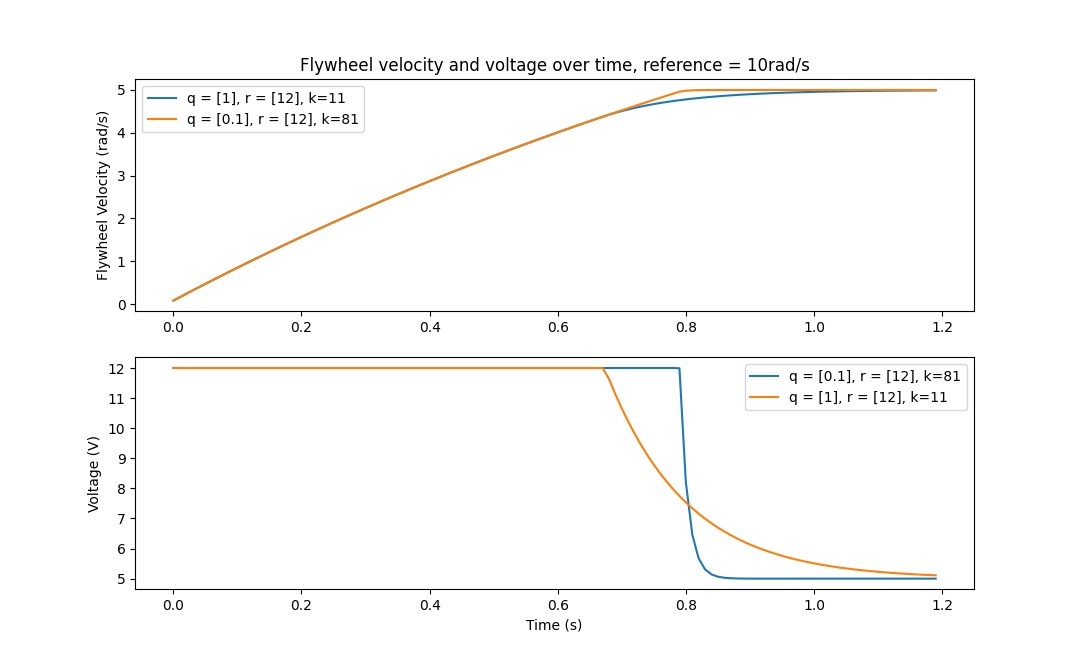
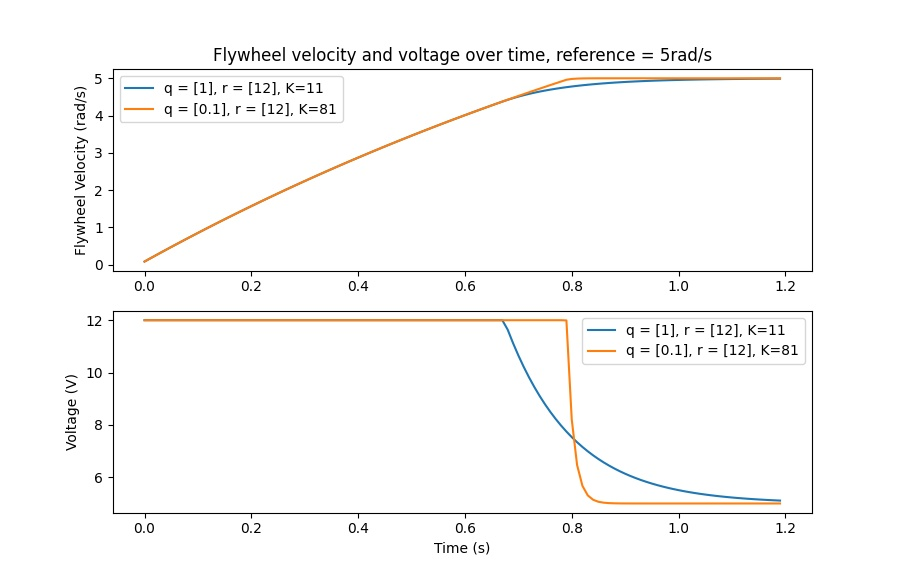
FiX iMAGE

diff --git a/source/docs/software/advanced-controls/state-space/graph.py b/source/docs/software/advanced-controls/state-space/graph.py
@@ -97,11 +97,11 @@ import matplotlib.pyplot as plt
 fig, (ax1, ax2) = plt.subplots(2)
 
 ax1.plot(t1, x1data, label = f"q = [1], r = [12], K={round(K1[0, 0])}")
-ax2.plot(t1, u1data, label = f"q = [1], r = [12], K={round(K1[0, 0])}")
 ax1.plot(t1, x2data, label = f"q = [0.1], r = [12], K={round(K2[0, 0])}")
+ax2.plot(t1, u1data, label = f"q = [1], r = [12], K={round(K1[0, 0])}")
 ax2.plot(t1, u2data, label = f"q = [0.1], r = [12], K={round(K2[0, 0])}")
 
-ax1.set(title="Flywheel velocity and voltage over time, reference = 10rad/s",ylabel="Flywheel Velocity (rad/s)")
+ax1.set(title="Flywheel velocity and voltage over time, reference = 5rad/s",ylabel="Flywheel Velocity (rad/s)")
 ax2.set(ylabel="Voltage (V)", xlabel="Time (s)")
 
 ax1.legend()
